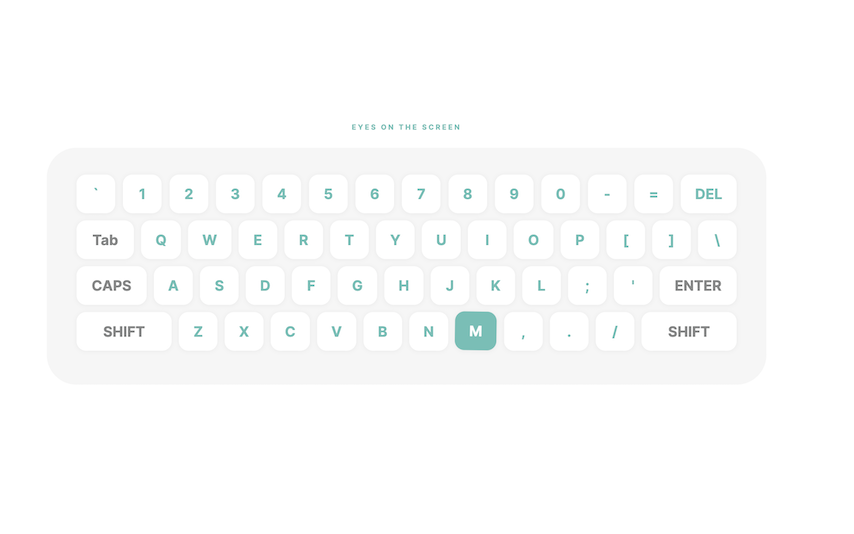
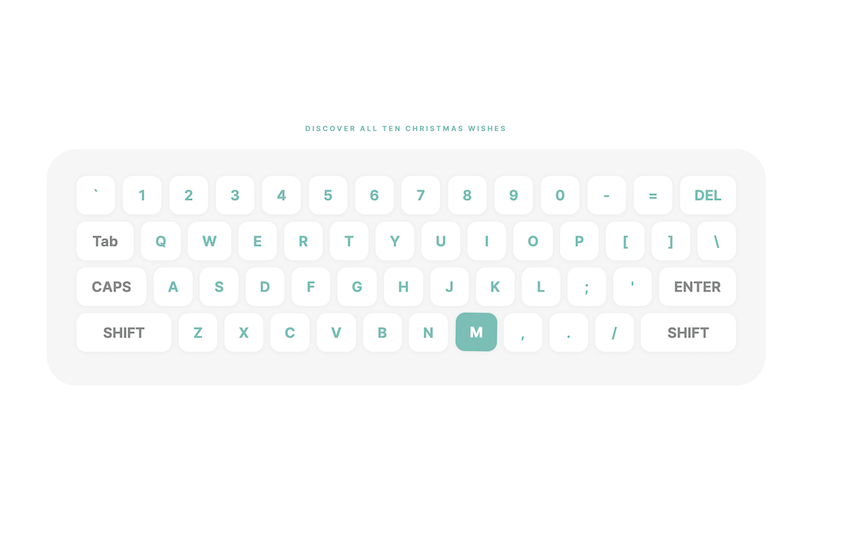
wip/time

diff --git a/src/components/Keyboard.vue b/src/components/Keyboard.vue
@@ -1,6 +1,6 @@
 <template>
   <div class="keyboard" v-show="!showWord">
-    <h1>EYES ON THE SCREEN</h1>
+    <h1>Discover all ten christmas wishes</h1>
     <div class="row">
       <button class="key" ref="`" value="`" @click="keyclick">`</button>
       <button class="key" ref="1" value="1" @click="keyclick">1</button>
@@ -92,12 +92,34 @@
         class="key"
         id="phrase-key"
         @click="showPhrase()"
+        @keyup.enter="showPhrase()"
       >
         Try again
       </button>
-      <button v-show="finishGame" class="key" id="phrase-key" @click="reload()">
+      <button
+        v-show="finishGame"
+        class="key restart-key"
+        id="phrase-key"
+        @click="reload()"
+        @keyup.enter="reload()"
+      >
         Restart the game
       </button>
+      <span v-show="finishGame">
+        <h6 class="total-wrap">
+          Total correct clicks:
+          <span class="correct-wrap">{{ correct }}</span>
+        </h6>
+        <h6 class="total-wrap">
+          Total mistakes: <span class="mistakes-wrap">{{ mistakes }}</span>
+        </h6>
+        <h6 class="total-wrap" v-if="Number(minutes) >= 1">
+          Total time spent: {{ minutes }} minutes
+        </h6>
+        <h6 class="total-wrap" v-if="Number(minutes) < 1">
+          Total time spent: {{ seconds }} seconds
+        </h6>
+      </span>
     </div>
   </div>
 </template>
@@ -121,13 +143,18 @@ export default defineComponent({
         "MERRY CHRISTMAS",
       ],
       usedPhrases: [] as Array<string>,
-      phrase: "",
-      oneWord: "",
-      letter: "",
-      jiggleWord: "",
+      phrase: "" as string,
+      oneWord: "" as string,
+      letter: "" as string,
+      jiggleWord: "" as string,
       showWord: false,
       finishGame: false,
-      time: 0,
+      minutes: "" as string,
+      seconds: "" as string,
+      start: new Date(),
+      end: new Date(),
+      correct: 0 as number,
+      mistakes: 0 as number,
     };
   },
   mounted() {
@@ -144,6 +171,8 @@ export default defineComponent({
         if (this.letter !== element.target.value) {
           const addLetterRef: any = this.$refs[element.target.value];
           addLetterRef.classList.add("wrongJiggle");
+          this.mistakes += 1;
+
           setTimeout(() => {
             addLetterRef.classList.remove("wrongJiggle");
           }, 2000);
@@ -155,6 +184,7 @@ export default defineComponent({
 
           const removeLetterRef: any = this.$refs[clickedButton];
           removeLetterRef.classList.remove("jiggle");
+          this.correct += 1;
 
           this.jiggleOrder();
         }
@@ -171,6 +201,8 @@ export default defineComponent({
         const addLetterRef: any = this.$refs[keyPress];
         if (addLetterRef) {
           addLetterRef.classList.add("wrongJiggle");
+          this.mistakes += 1;
+
           setTimeout(() => {
             addLetterRef.classList.remove("wrongJiggle");
           }, 2000);
@@ -183,6 +215,7 @@ export default defineComponent({
 
         const removeLetterRef: any = this.$refs[clickedButton];
         removeLetterRef.classList.remove("jiggle");
+        this.correct += 1;
 
         this.jiggleOrder();
       }
@@ -219,6 +252,13 @@ export default defineComponent({
 
       if (this.phrases.length === 0) {
         this.finishGame = true;
+
+        this.end = new Date();
+        const timeDifference: any = +new Date(this.end) - +new Date(this.start);
+        this.minutes = (timeDifference / 60000).toFixed(2);
+        if (Number(this.minutes) < 1) {
+          this.seconds = ((timeDifference % 60000) / 1000).toFixed(0);
+        }
       }
     },
     reload() {

diff --git a/src/assets/base.css b/src/assets/base.css
@@ -115,6 +115,22 @@ h1 {
   color: white;
 }
 
+.restart-key {
+  margin-bottom: 3rem;
+}
+
+.total-wrap {
+  margin: 0;
+}
+
+.correct-wrap {
+  color: #60C1B6;
+}
+
+.mistakes-wrap {
+  color: #D23369;
+}
+
 @keyframes jiggle {
   0% {
     transform: translate(1px, 1px) rotate(0deg);
